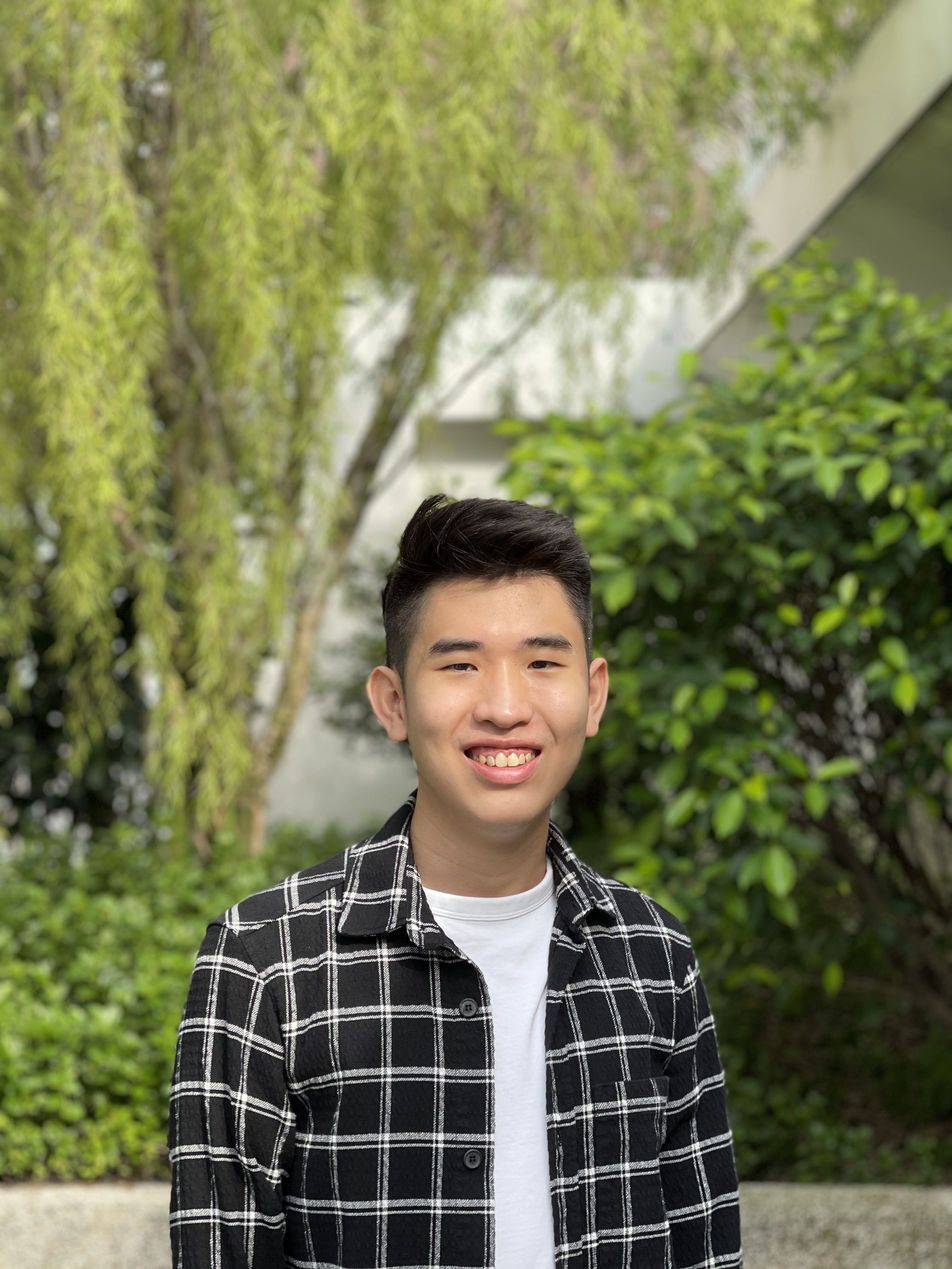
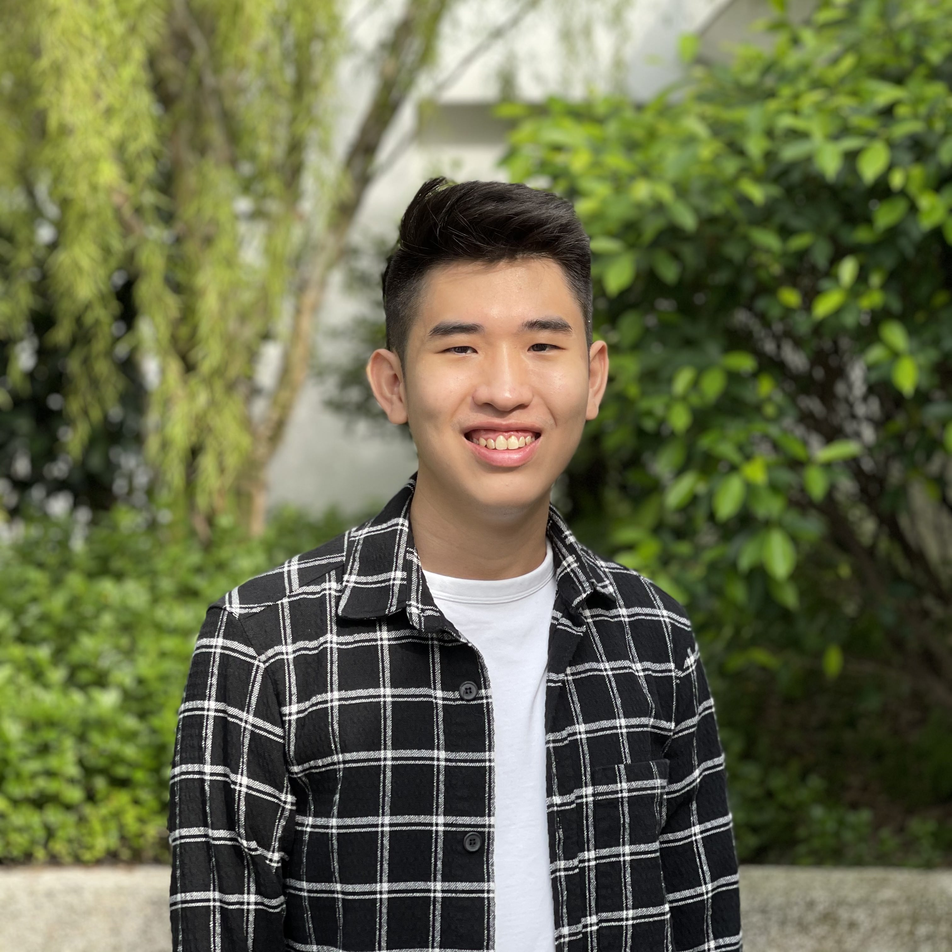
sheeesh

diff --git a/index.html b/index.html
@@ -10,6 +10,8 @@
         <link rel="icon" type="image/x-icon" href="assets/favicon.ico" />
         <!-- Bootstrap icons-->
         <link href="https://cdn.jsdelivr.net/npm/bootstrap-icons@1.4.1/font/bootstrap-icons.css" rel="stylesheet" />
+        <!-- Font Awesome icons (free version)-->
+        <script src="https://use.fontawesome.com/releases/v5.15.4/js/all.js" crossorigin="anonymous"></script>
         <!-- Core theme CSS (includes Bootstrap)-->
         <link href="css/styles.css" rel="stylesheet" />
     </head>
@@ -286,18 +288,18 @@
                 <div class="row">
                     <div class="col-lg-4">
                         <div class="team-member">
-                            <img class="mx-auto rounded-circle" src="/Users/xavier/Documents/GitHub/WhereToMeet/assets/IMG_4904_2.jpg" alt="..." />
-                            <h4>Parveen Anand</h4>
+                            <img class="mx-auto rounded-circle" src="assets/IMG_4904_2.jpg" alt="..." />
+                            <h4>Xavier Ng</h4>
                             <p class="text-muted">Lead Designer</p>
-                            <a class="btn btn-dark btn-social mx-2" href="#!"><i class="fab fa-twitter"></i></a>
-                            <a class="btn btn-dark btn-social mx-2" href="#!"><i class="fab fa-facebook-f"></i></a>
-                            <a class="btn btn-dark btn-social mx-2" href="#!"><i class="fab fa-linkedin-in"></i></a>
+                            <a class="btn btn-dark btn-social mx-2" href="https://www.instagram.com/imxavieer/"><i class="fab fa-instagram"></i></a>
+                            <a class="btn btn-dark btn-social mx-2" href="https://www.facebook.com/xavier.n.han/"><i class="fab fa-facebook-f"></i></a>
+                            <a class="btn btn-dark btn-social mx-2" href="https://www.linkedin.com/in/xavierngzh/"><i class="fab fa-linkedin-in"></i></a>
                         </div>
                     </div>
                     <div class="col-lg-4">
                         <div class="team-member">
-                            <img class="mx-auto rounded-circle" src="assets/img/team/2.jpg" alt="..." />
-                            <h4>Diana Petersen</h4>
+                            <img class="mx-auto rounded-circle" src="assets/IMG_0455.jpg" alt="..." />
+                            <h4>Jung Ho-yeon</h4>
                             <p class="text-muted">Lead Marketer</p>
                             <a class="btn btn-dark btn-social mx-2" href="#!"><i class="fab fa-twitter"></i></a>
                             <a class="btn btn-dark btn-social mx-2" href="#!"><i class="fab fa-facebook-f"></i></a>
@@ -306,7 +308,7 @@
                     </div>
                     <div class="col-lg-4">
                         <div class="team-member">
-                            <img class="mx-auto rounded-circle" src="assets/img/team/3.jpg" alt="..." />
+                            <img class="mx-auto rounded-circle" src="assets/3.jpg" alt="..." />
                             <h4>Larry Parker</h4>
                             <p class="text-muted">Lead Developer</p>
                             <a class="btn btn-dark btn-social mx-2" href="#!"><i class="fab fa-twitter"></i></a>

diff --git a/css/styles.css b/css/styles.css
@@ -29,6 +29,30 @@
   margin-top: 1.5rem;
   margin-bottom: 0;
 }
+.btn-social {
+  height: 2.5rem;
+  width: 2.5rem;
+  display: inline-flex;
+  align-items: center;
+  justify-content: center;
+  padding: 0;
+  border-radius: 100%;
+}
+.page-section {
+  padding: 6rem 0;
+}
+.page-section h2.section-heading, .page-section .section-heading.h2 {
+  font-size: 2.5rem;
+  margin-top: 0;
+  margin-bottom: 1rem;
+}
+.page-section h3.section-subheading, .page-section .section-subheading.h3 {
+  font-size: 1rem;
+  font-weight: 400;
+  font-style: italic;
+  font-family: "Roboto Slab", -apple-system, BlinkMacSystemFont, "Segoe UI", Roboto, "Helvetica Neue", Arial, sans-serif, "Apple Color Emoji", "Segoe UI Emoji", "Segoe UI Symbol", "Noto Color Emoji";
+  margin-bottom: 4rem;
+}
 :root {
   --bs-blue: #0d6efd;
   --bs-indigo: #6610f2;
